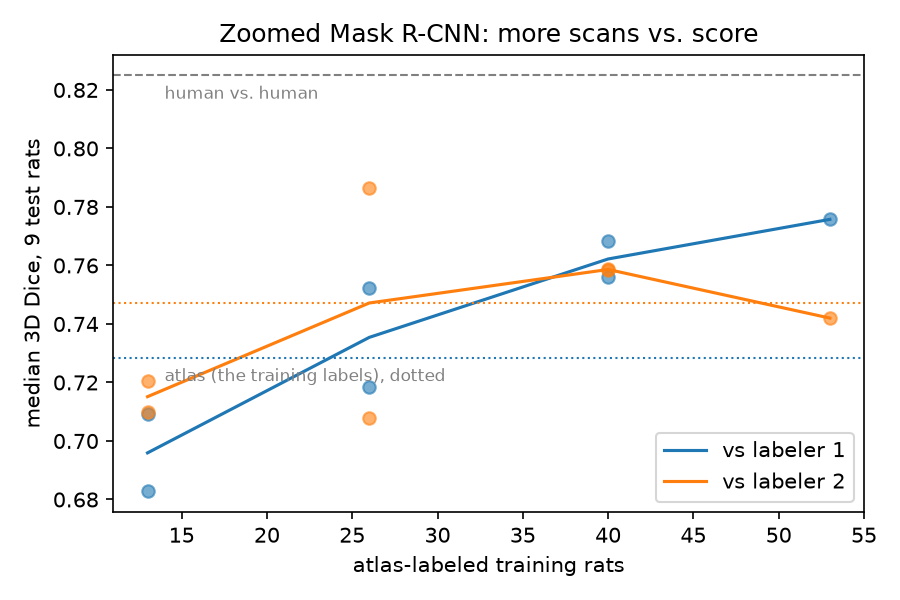
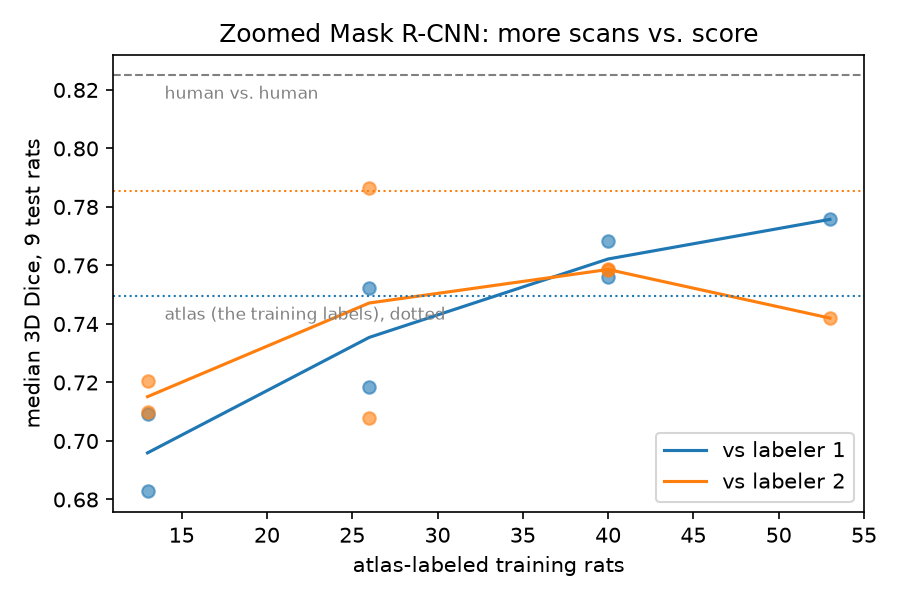
Learning-curve atlas lines: score the 9 test rats only (rat 2 is atlas-derived)
Also ignore model.pt / predictions.pkl at any depth under rcnn_out.

diff --git a/rcnn/learning_curve.py b/rcnn/learning_curve.py
@@ -27,7 +27,7 @@ import numpy as np
 import torch
 
 from . import models
-from .common import ROOT, load_split, pick_device
+from .common import ROOT, TEST_RATS, load_split, pick_device
 from .evaluate import score
 from .train import Log, train_network
 from .zoom import ZoomDataset, predict
@@ -66,7 +66,7 @@ def run_one(name, rats, device, smoke):
 
 def medians(results_csv):
     with open(results_csv) as f:
-        rows = list(csv.DictReader(f))
+        rows = [r for r in csv.DictReader(f) if int(r["rat"]) in TEST_RATS]
     return {k: float(np.median([float(r[k]) for r in rows])) for k in ["dice_vs_me", "iou_vs_me", "dice_vs_other"]}
 
 
